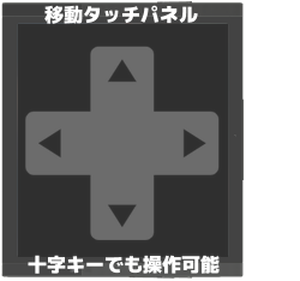
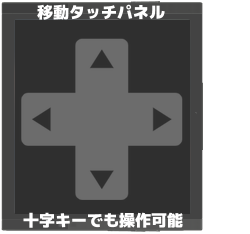
20201010

diff --git a/js/plugins.js b/js/plugins.js
@@ -2,7 +2,7 @@
 // Do not edit this file directly.
 var $plugins =
 [
-{"name":"Community_Basic","status":true,"description":"基本的なパラメーターを設定するプラグインです。","parameters":{"cacheLimit":"10","screenWidth":"432","screenHeight":"720","changeWindowWidthTo":"440","changeWindowHeightTo":"710","renderingMode":"canvas","alwaysDash":"off"}},
+{"name":"Community_Basic","status":true,"description":"基本的なパラメーターを設定するプラグインです。","parameters":{"cacheLimit":"10","screenWidth":"420","screenHeight":"710","changeWindowWidthTo":"420","changeWindowHeightTo":"710","renderingMode":"canvas","alwaysDash":"off"}},
 {"name":"111_InputForm","status":true,"description":"フォーム作って文字入力","parameters":{}},
 {"name":"DTextPicture","status":true,"description":"動的文字列ピクチャ生成プラグイン","parameters":{}},
 {"name":"QuickMove","status":false,"description":"歩行とジャンプを軽快に(2000風に)します。","parameters":{}},
